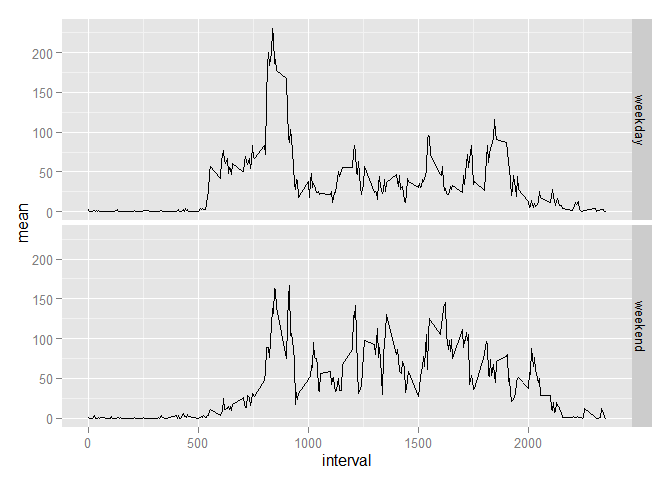
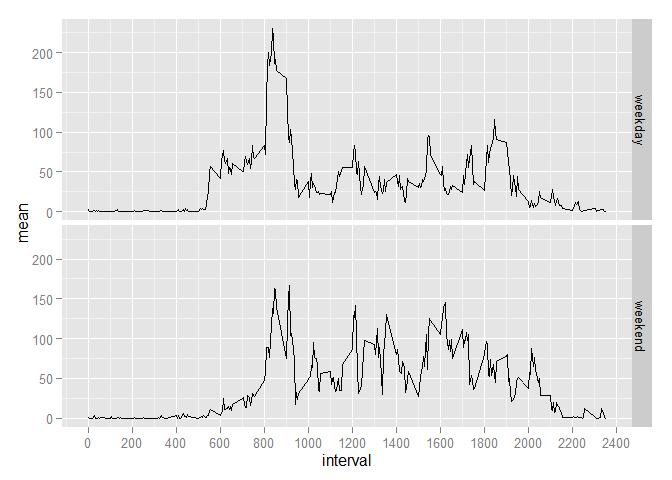
Changes in x axis in ggplot, minor typo

diff --git a/PA1_template.html b/PA1_template.html
@@ -209,9 +209,9 @@ new_by_intervals &lt;- summarise(group_by(newdata, interval, weekday),
                                    mean = mean(steps))
 
 tsplot &lt;- ggplot(new_by_intervals, aes(interval, mean))
-tsplot + geom_line() + facet_grid(weekday ~ .)</code></pre>
[1 lines of base64/hex data omitted]
-<p>According to the plot, weekdays demonstrate a longer activity period starting at around 5.30 am while on weekends it starts slightly later and shifted towards the end of a day. Also the weekday pattern includes an evident peak in the morning with lower activity later in the day. The weekend pattern is more even across the day.</p>
+tsplot + geom_line() + facet_grid(weekday ~ .) + scale_x_continuous(breaks = pretty(new_by_intervals$interval, n = 12))</code></pre>
[1 lines of base64/hex data omitted]
+<p>According to the plot, weekdays demonstrate a longer activity period starting at around 5.30 am while on weekends it starts slightly later and is shifted towards the end of a day. Also the weekday pattern includes an evident peak in the morning with lower activity later in the day. The weekend pattern is more even across the day.</p>
 </div>
 
 

diff --git a/PA1_template.md b/PA1_template.md
@@ -244,10 +244,10 @@ new_by_intervals <- summarise(group_by(newdata, interval, weekday),
                                    mean = mean(steps))
 
 tsplot <- ggplot(new_by_intervals, aes(interval, mean))
-tsplot + geom_line() + facet_grid(weekday ~ .)
+tsplot + geom_line() + facet_grid(weekday ~ .) + scale_x_continuous(breaks = pretty(new_by_intervals$interval, n = 12))
 ```
 
 ![](PA1_template_files/figure-html/unnamed-chunk-14-1.png) 
 
-According to the plot, weekdays demonstrate a longer activity period starting at around 5.30 am while on weekends it starts slightly later and shifted towards the end of a day. Also the weekday pattern includes an evident peak in the morning with lower activity later in the day. The weekend pattern is more even across the day.
+According to the plot, weekdays demonstrate a longer activity period starting at around 5.30 am while on weekends it starts slightly later and is shifted towards the end of a day. Also the weekday pattern includes an evident peak in the morning with lower activity later in the day. The weekend pattern is more even across the day.
 
